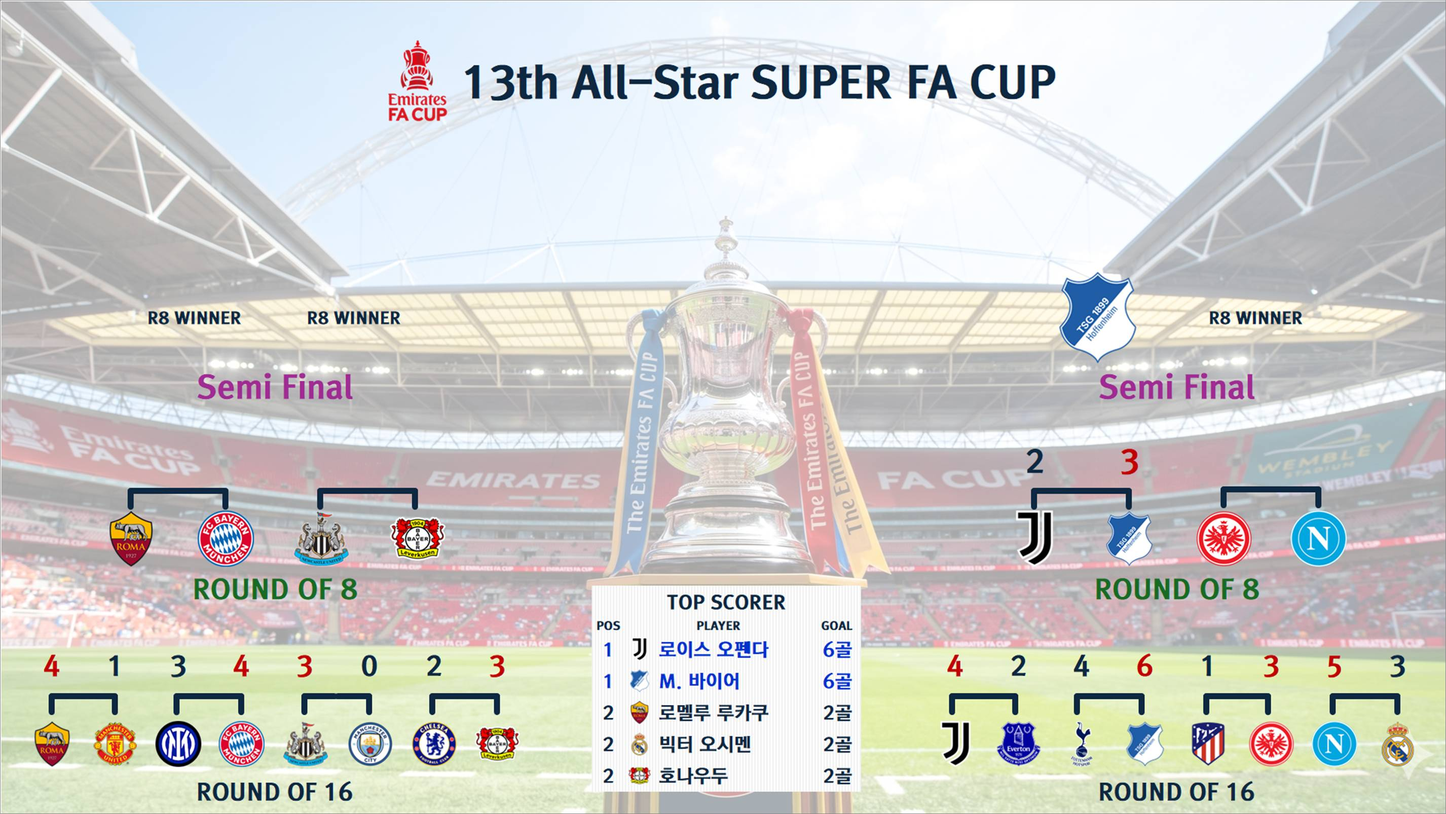
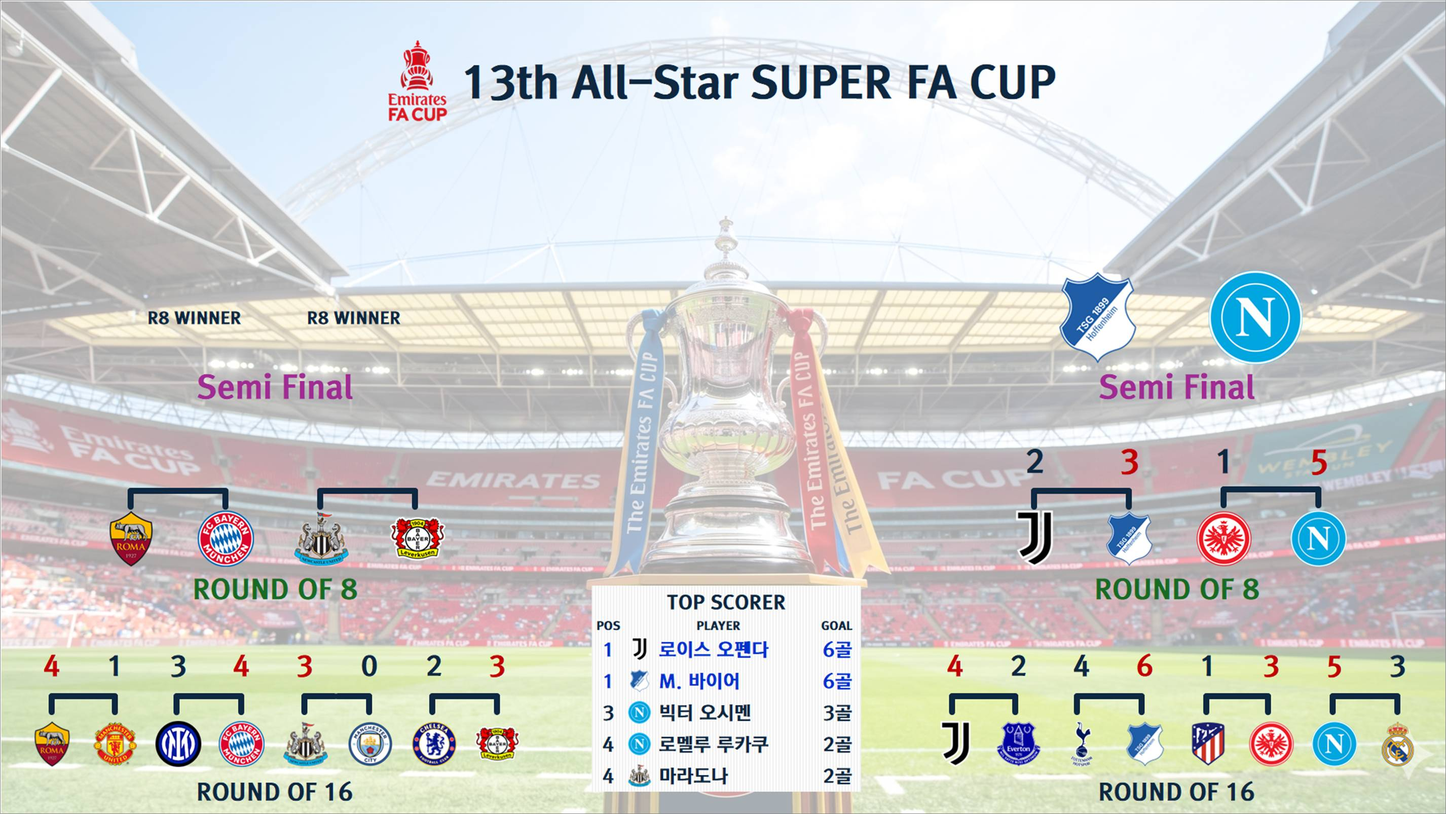
Optimize: 18:56:31

Changed region(s): [[0.4055, 0.8406, 0.5303, 0.9651], [0.8111, 0.3113, 0.9047, 0.467], [0.9047, 0.5604, 0.9359, 0.5915]]

diff --git a/index.html b/index.html
@@ -69,9 +69,9 @@
     <div class="container">
         <div class="card"><h2>🥇 1부 리그 순위표</h2><img src="https://i.ibb.co/gbHxqXkC/e882e600a67b.jpg" alt="1부 리그"></div>
         <div class="card"><h2>🥈 2부 리그 순위표</h2><img src="https://i.ibb.co/N2CFdnmR/93816511ce27.jpg" alt="2부 리그"></div>
-        <div class="card"><h2>🏅 FA컵 토너먼트 대진표</h2><img src="https://i.ibb.co/bMpYbHcG/564cc55e84ca.jpg" alt="FA컵"></div>
+        <div class="card"><h2>🏅 FA컵 토너먼트 대진표</h2><img src="https://i.ibb.co/VyJGZL0/bb6d06e18c64.jpg" alt="FA컵"></div>
         <div class="card"><h2>🌟 UCL 그룹스테이지</h2><img src="https://i.ibb.co/dsvwkLdR/e4da21e94a73.jpg" alt="UCL 조별"></div>
-        <div class="card"><h2>👑 GOLDEN BOOT (통합 득점왕)</h2><img src="https://i.ibb.co/qYhzVr9W/5cc4b75bb0b5.jpg" alt="득점왕"></div>
+        <div class="card"><h2>👑 GOLDEN BOOT (통합 득점왕)</h2><img src="https://i.ibb.co/sdPDJgQH/e29c96146a1c.jpg" alt="득점왕"></div>
         <div class="card"><h2>🏆 UCL 토너먼트 대진표</h2><img src="https://i.ibb.co/hx6Xtpvx/4d02967e9970.jpg" alt="UCL 토너"></div>
         <div class="card"><h2>🎖 UEL 토너먼트 대진표</h2><img src="https://i.ibb.co/Tq4dcw7q/8e12b9351476.jpg" alt="UEL 토너"></div>
     </div>
